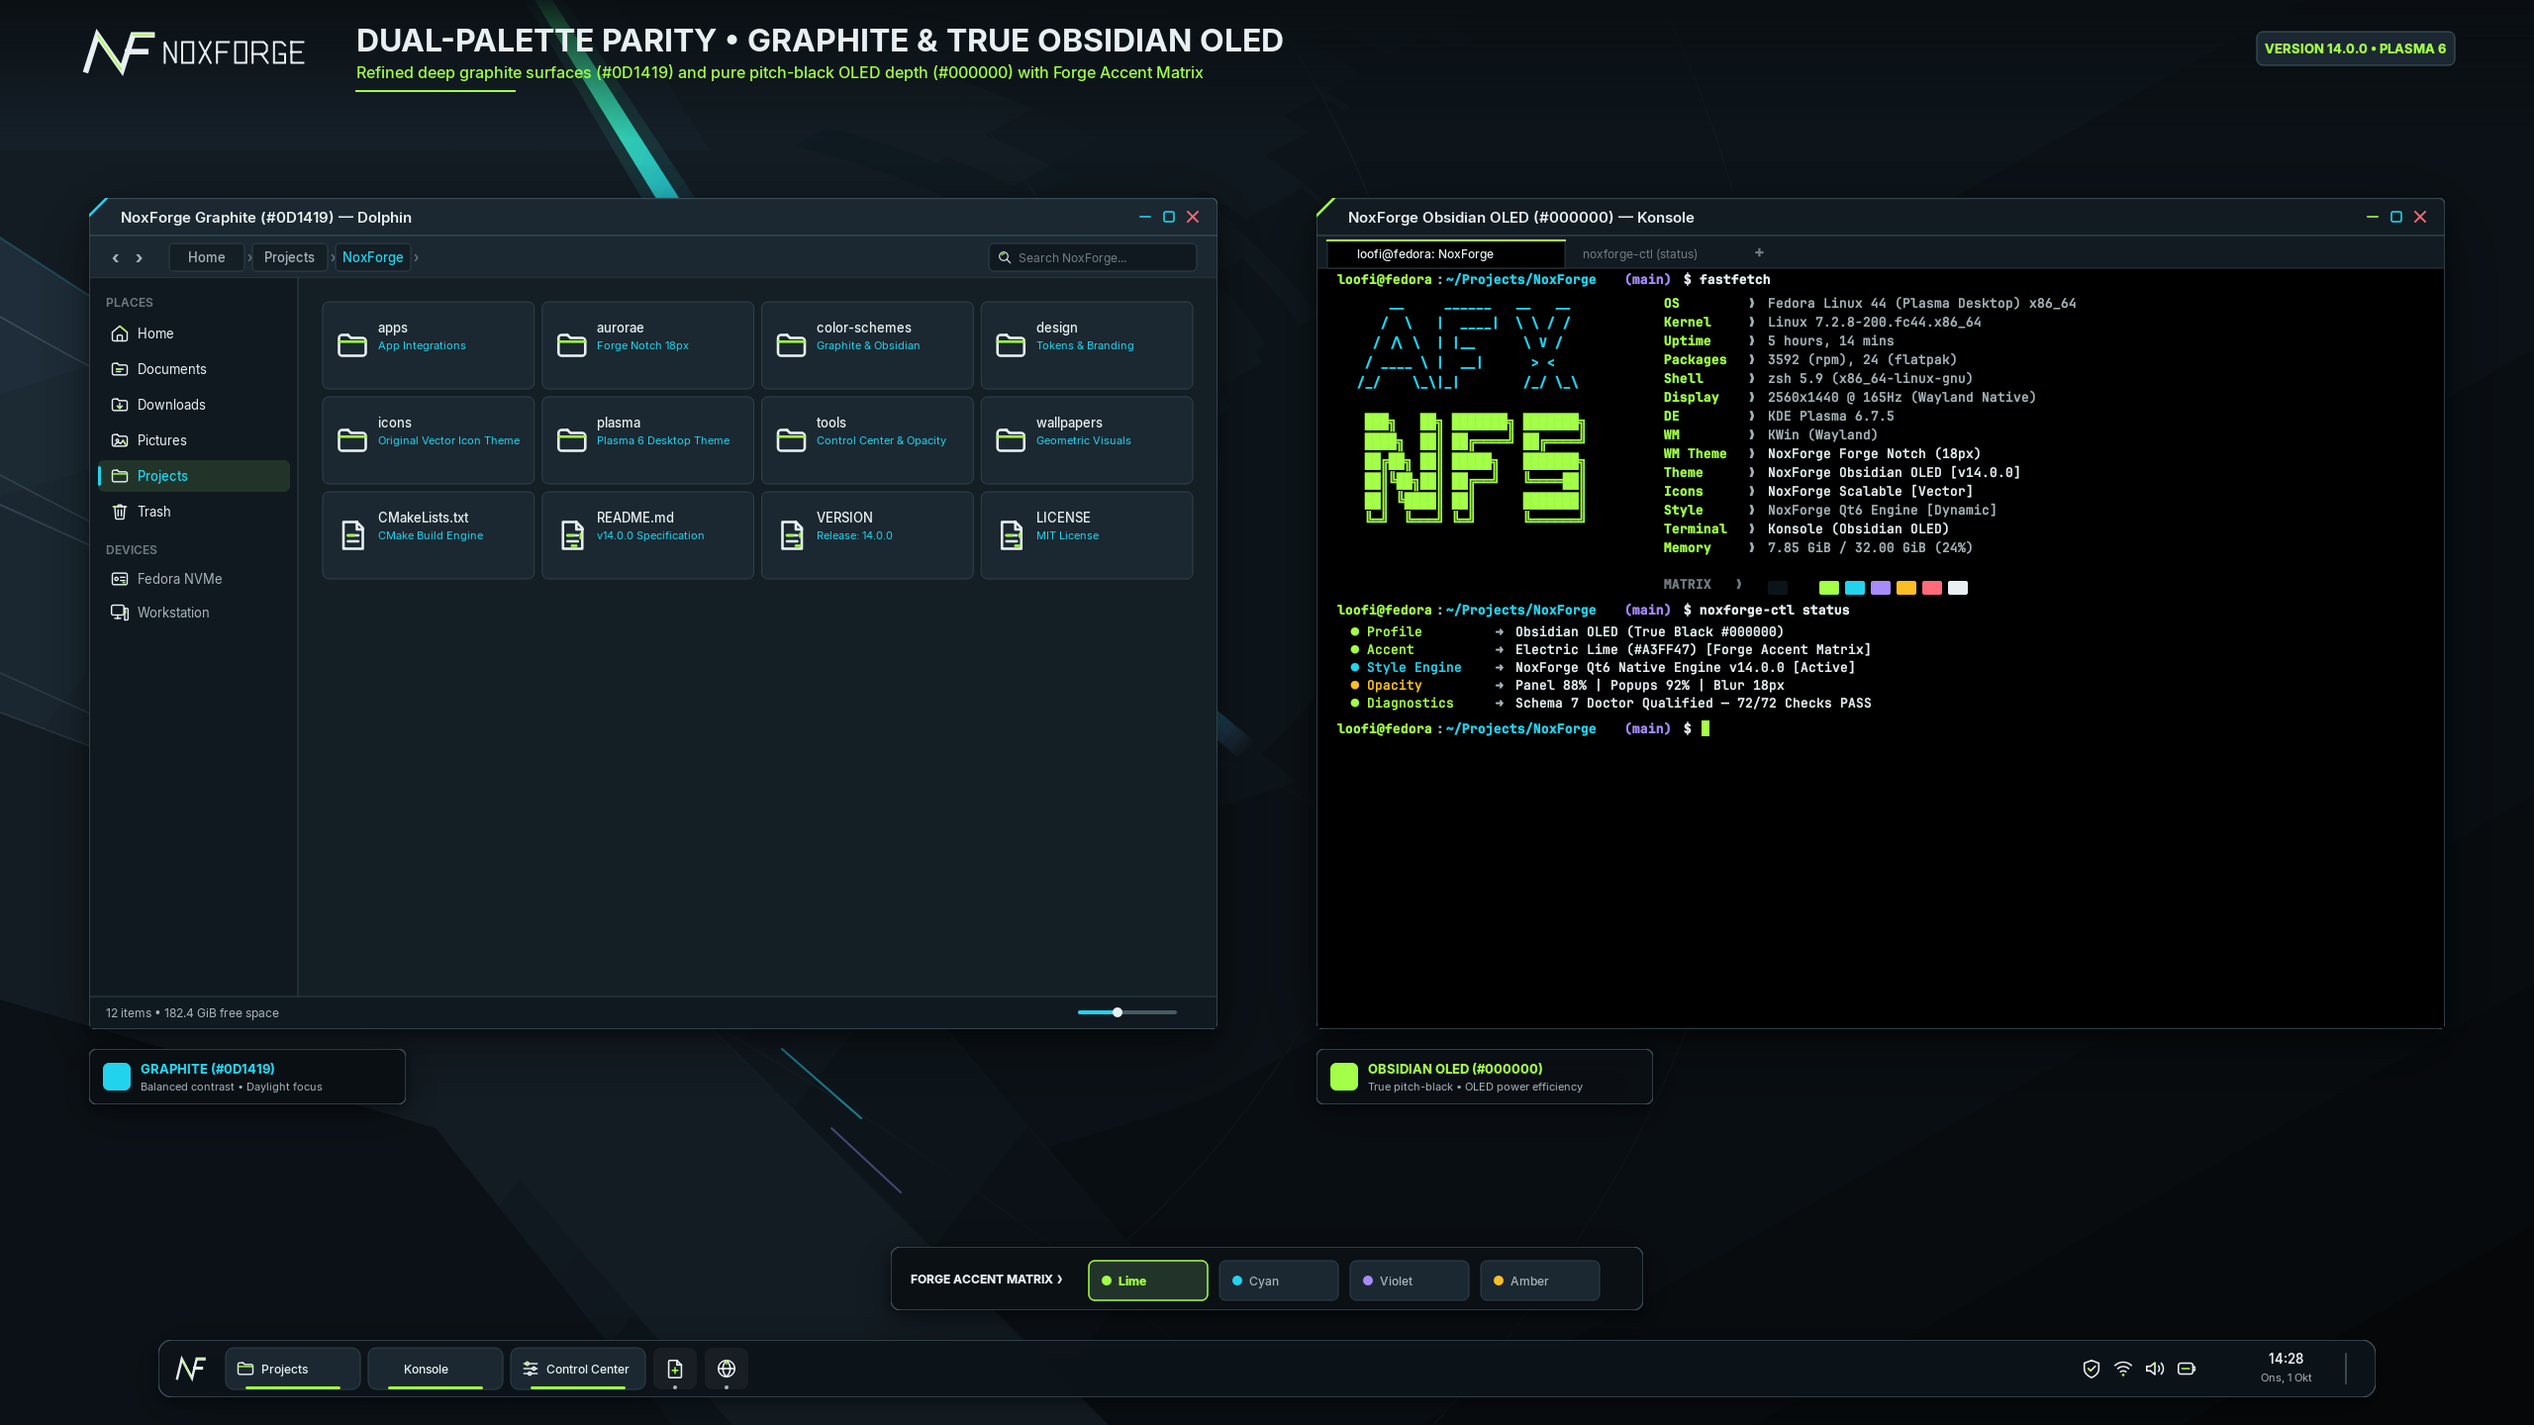
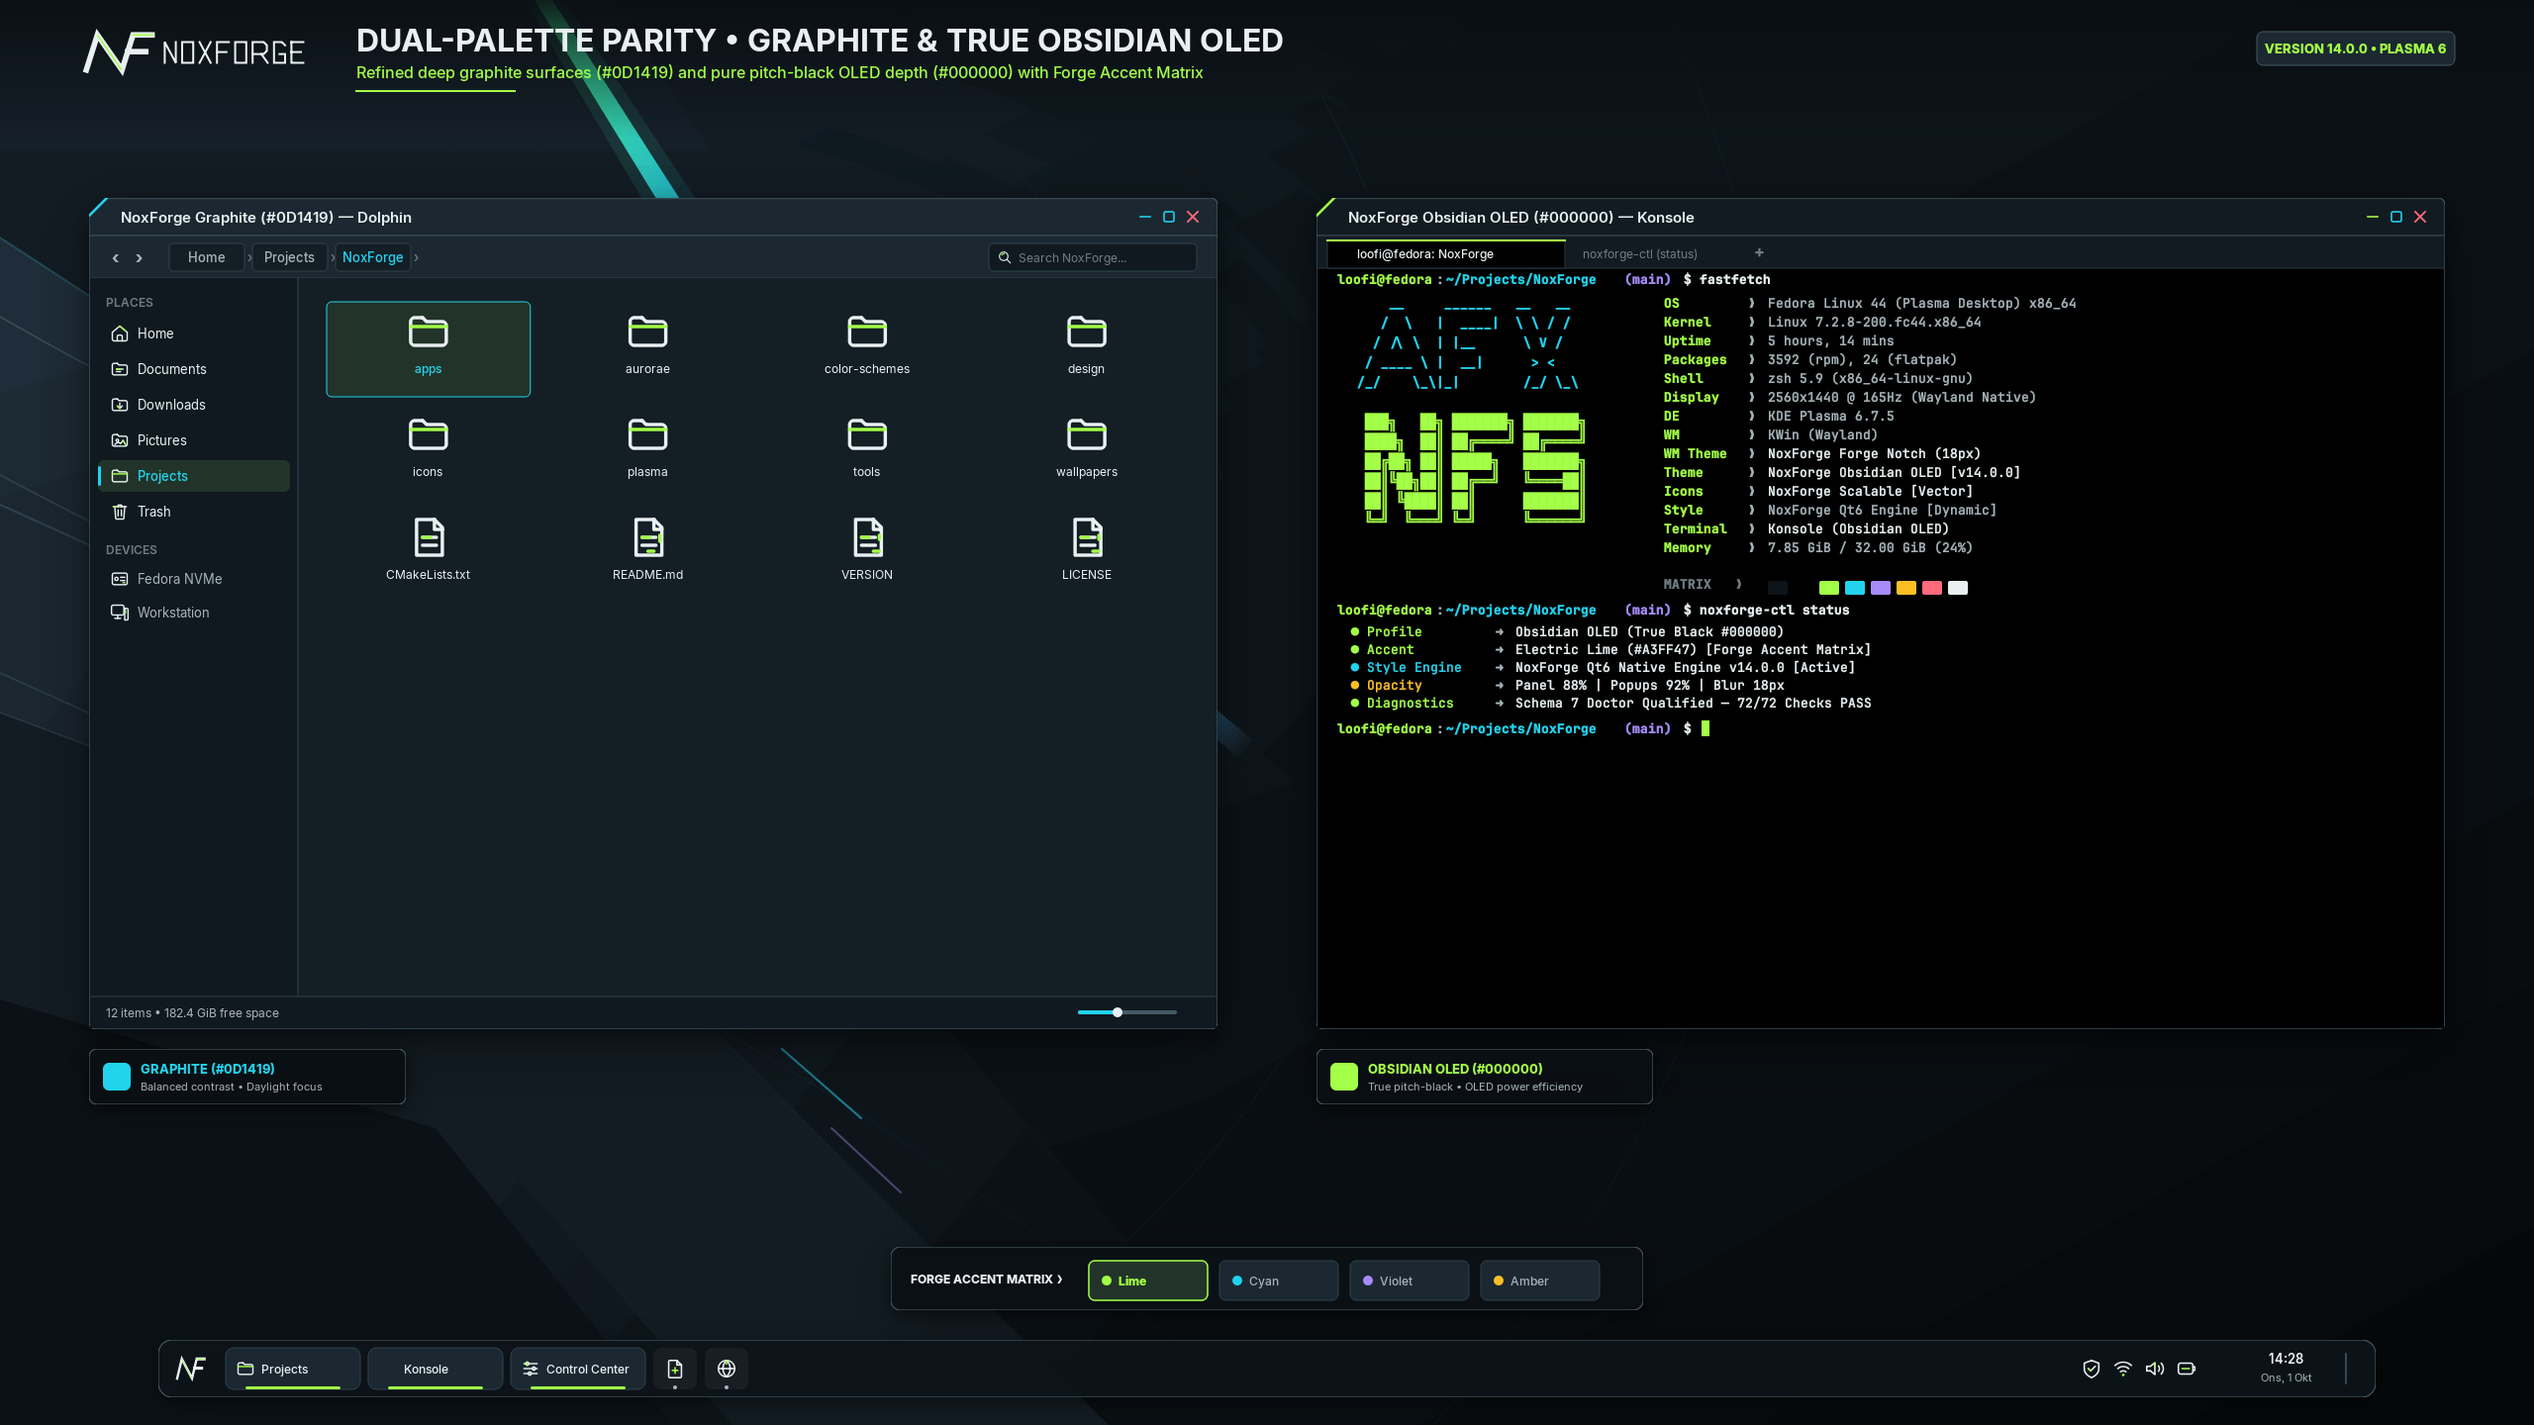
fix(experience): align dolphin showcase with authentic plasma 6 view and add 1-click apply onboarding

diff --git a/look-and-feel/io.github.loofiboss.noxforge.obsidian.desktop/contents/layouts/org.kde.plasma.desktop-layout.js b/look-and-feel/io.github.loofiboss.noxforge.obsidian.desktop/contents/layouts/org.kde.plasma.desktop-layout.js
@@ -1,6 +1,7 @@
 var panel = new Panel;
 panel.location = "bottom";
-panel.height = 40;
+panel.height = 44;
+panel.floating = true;
 panel.addWidget("org.kde.plasma.kickoff");
 panel.addWidget("org.kde.plasma.pager");
 panel.addWidget("org.kde.plasma.icontasks");
@@ -12,4 +13,6 @@ panel.addWidget("org.kde.plasma.showdesktop");
 var desktops = desktopsForActivity(currentActivity());
 for (var index = 0; index < desktops.length; index++) {
     desktops[index].wallpaperPlugin = "org.kde.image";
+    desktops[index].currentConfigGroup = ["Wallpaper", "org.kde.image", "General"];
+    desktops[index].writeConfig("Image", "NoxForge-Obsidian");
 }

diff --git a/look-and-feel/io.github.loofiboss.noxforge.desktop/contents/layouts/org.kde.plasma.desktop-layout.js b/look-and-feel/io.github.loofiboss.noxforge.desktop/contents/layouts/org.kde.plasma.desktop-layout.js
@@ -1,6 +1,7 @@
 var panel = new Panel;
 panel.location = "bottom";
-panel.height = 40;
+panel.height = 44;
+panel.floating = true;
 panel.addWidget("org.kde.plasma.kickoff");
 panel.addWidget("org.kde.plasma.pager");
 panel.addWidget("org.kde.plasma.icontasks");
@@ -12,4 +13,6 @@ panel.addWidget("org.kde.plasma.showdesktop");
 var desktops = desktopsForActivity(currentActivity());
 for (var index = 0; index < desktops.length; index++) {
     desktops[index].wallpaperPlugin = "org.kde.image";
+    desktops[index].currentConfigGroup = ["Wallpaper", "org.kde.image", "General"];
+    desktops[index].writeConfig("Image", "NoxForge");
 }

diff --git a/scripts/render_store_screenshots.py b/scripts/render_store_screenshots.py
@@ -348,51 +348,54 @@ def create_dolphin_window(
         p.drawText(QRectF(drect.left() + 40, drect.top(), 140, 32), Qt.AlignmentFlag.AlignVCenter, dname)
         item_y += 34
 
-    # Main Grid Area (File Browser)
+    # Main Grid Area (Authentic KDE 6 Dolphin File Grid)
     main_rect = QRectF(side_rect.right() + 1, content.top() + tb_h, content.width() - side_w - 1, content.height() - tb_h - 32)
     p.fillRect(main_rect, BG_OBSIDIAN if is_obsidian else SURFACE_GRAPHITE)
 
     folders_and_files = [
-        ("apps", "places/folder.svg", True, "App Integrations"),
-        ("aurorae", "places/folder.svg", True, "Forge Notch 18px"),
-        ("color-schemes", "places/folder.svg", True, "Graphite & Obsidian"),
-        ("design", "places/folder.svg", True, "Tokens & Branding"),
-        ("icons", "places/folder.svg", True, "Original Vector Icon Theme"),
-        ("plasma", "places/folder.svg", True, "Plasma 6 Desktop Theme"),
-        ("tools", "places/folder.svg", True, "Control Center & Opacity"),
-        ("wallpapers", "places/folder.svg", True, "Geometric Visuals"),
-        ("CMakeLists.txt", "mimetypes/text-x-generic.svg", False, "CMake Build Engine"),
-        ("README.md", "mimetypes/text-markdown.svg", False, "v14.0.0 Specification"),
-        ("VERSION", "mimetypes/text-plain.svg", False, "Release: 14.0.0"),
-        ("LICENSE", "mimetypes/text-plain.svg", False, "MIT License"),
+        ("apps", "places/folder.svg", True),
+        ("aurorae", "places/folder.svg", True),
+        ("color-schemes", "places/folder.svg", True),
+        ("design", "places/folder.svg", True),
+        ("icons", "places/folder.svg", True),
+        ("plasma", "places/folder.svg", True),
+        ("tools", "places/folder.svg", True),
+        ("wallpapers", "places/folder.svg", True),
+        ("CMakeLists.txt", "mimetypes/text-x-generic.svg", False),
+        ("README.md", "mimetypes/text-markdown.svg", False),
+        ("VERSION", "mimetypes/text-plain.svg", False),
+        ("LICENSE", "mimetypes/text-plain.svg", False),
     ]
 
     grid_cols = 4
     col_w = (main_rect.width() - 40) / grid_cols
-    row_h = 96
+    row_h = 104
     gx = main_rect.left() + 20
     gy = main_rect.top() + 20
 
-    for i, (fname, ficon, is_dir, fdesc) in enumerate(folders_and_files):
+    for i, (fname, ficon, is_dir) in enumerate(folders_and_files):
         c = i % grid_cols
         r = i // grid_cols
         bx = gx + c * col_w
         by = gy + r * row_h
-        card_rect = QRectF(bx + 4, by + 4, col_w - 8, row_h - 8)
+        cell_rect = QRectF(bx + 8, by + 4, col_w - 16, row_h - 8)
 
-        p.setPen(BORDER_OBSIDIAN if is_obsidian else BORDER_DEFAULT)
-        p.setBrush(SURFACE_OBSIDIAN_RAISED if is_obsidian else SURFACE_RAISED)
-        p.drawRoundedRect(card_rect, 6, 6)
+        # Highlight active selection on 'apps' to demonstrate authentic Dolphin focus
+        is_selected = (fname == "apps" and is_active)
+        if is_selected:
+            p.setPen(QPen(accent, 1.0))
+            p.setBrush(SURFACE_SELECTED)
+            p.drawRoundedRect(cell_rect, 5, 5)
 
-        render_svg(p, ICONS / ficon, QRectF(card_rect.left() + 12, card_rect.top() + (row_h - 8 - 36) / 2, 36, 36))
+        icon_sz = 48
+        icon_x = cell_rect.center().x() - icon_sz / 2
+        icon_y = cell_rect.top() + 6
+        render_svg(p, ICONS / ficon, QRectF(icon_x, icon_y, icon_sz, icon_sz))
 
-        p.setFont(get_font("Inter", 10, QFont.Weight.Medium))
-        p.setPen(TEXT_PRIMARY)
-        p.drawText(QRectF(card_rect.left() + 56, card_rect.top() + 16, card_rect.width() - 60, 20), Qt.AlignmentFlag.AlignVCenter, fname)
-
-        p.setFont(get_font("Inter", 8, QFont.Weight.Normal))
-        p.setPen(accent if is_dir else ACCENT_CYAN)
-        p.drawText(QRectF(card_rect.left() + 56, card_rect.top() + 36, card_rect.width() - 60, 16), Qt.AlignmentFlag.AlignVCenter, fdesc)
+        p.setFont(get_font("Inter", 9, QFont.Weight.Medium if is_selected else QFont.Weight.Normal))
+        p.setPen(accent if is_selected else TEXT_PRIMARY)
+        lbl_rect = QRectF(cell_rect.left() + 2, icon_y + icon_sz + 6, cell_rect.width() - 4, 22)
+        p.drawText(lbl_rect, Qt.AlignmentFlag.AlignHCenter | Qt.AlignmentFlag.AlignTop, fname)
 
     # Status Bar
     stat_rect = QRectF(content.left(), content.bottom() - 32, content.width(), 32)

diff --git a/tools/control_center.py b/tools/control_center.py
@@ -149,6 +149,19 @@ class ProfileAccentTab(QtWidgets.QWidget):
         btn_row.addWidget(self.btn_graphite)
         btn_row.addWidget(self.btn_obsidian)
         p_layout.addLayout(btn_row)
+
+        # 1-Click Full Setup Action
+        setup_row = QtWidgets.QHBoxLayout()
+        self.setup_full_btn = QtWidgets.QPushButton("  ⚡  Apply Complete Setup (Global Theme, Icons, Cursors & Wallpaper)")
+        self.setup_full_btn.setMinimumHeight(34)
+        self.setup_full_btn.setStyleSheet(
+            "background-color: #142218; border: 1px solid #A3FF47; border-radius: 5px; "
+            "color: #A3FF47; font-weight: bold; font-size: 11px; padding: 4px 12px;"
+        )
+        self.setup_full_btn.clicked.connect(self.apply_full_active_setup)
+        setup_row.addWidget(self.setup_full_btn)
+        p_layout.addLayout(setup_row)
+
         layout.addWidget(profile_group)
 
         # Accent Color Section
@@ -336,9 +349,22 @@ class ProfileAccentTab(QtWidgets.QWidget):
                 pass
 
     def apply_profile(self, profile: str) -> None:
-        res = noxforge_ctl.switch_profile(profile)
+        if hasattr(noxforge_ctl, "apply_setup"):
+            res = noxforge_ctl.apply_setup(profile)
+        else:
+            res = noxforge_ctl.switch_profile(profile)
         self.refresh_state()
-        self.statusChanged.emit(f"Profile activated: {profile.upper()}")
+        self.statusChanged.emit(f"Profile activated: {profile.upper()} (complete desktop synchronized)")
+
+    def apply_full_active_setup(self) -> None:
+        status = noxforge_ctl.get_current_status()
+        profile = status.get("profile", "graphite")
+        if hasattr(noxforge_ctl, "apply_setup"):
+            res = noxforge_ctl.apply_setup(profile)
+        else:
+            res = noxforge_ctl.sync_desktop(profile)
+        self.refresh_state()
+        self.statusChanged.emit(f"Complete {profile.upper()} setup applied (Theme, Icons, Cursors, Wallpaper)")
 
     def apply_accent(self, accent: str) -> None:
         res = noxforge_ctl.set_accent(accent)

diff --git a/tests/test_v15_contracts.py b/tests/test_v15_contracts.py
@@ -204,6 +204,23 @@ class NoxForgeV15ContractsTests(unittest.TestCase):
         self.assertEqual(data["changes"]["widgetStyle"], "NoxForge")
         self.assertEqual(data["changes"]["iconTheme"], "NoxForge")
 
+    def test_ctl_apply_subcommand(self) -> None:
+        ctl = ROOT / "tools/noxforge-ctl"
+        res = subprocess.run(
+            [sys.executable, str(ctl), "apply", "graphite", "--layout", "-n", "--json"],
+            cwd=ROOT,
+            capture_output=True,
+            text=True,
+            check=False,
+        )
+        self.assertEqual(res.returncode, 0)
+        data = json.loads(res.stdout)
+        self.assertEqual(data["status"], "dry-run")
+        self.assertIn("wallpaper", data["changes"])
+        self.assertEqual(data["changes"]["wallpaper"], "NoxForge")
+        self.assertEqual(data["changes"]["desktopLayout"], "floating-panel")
+        self.assertEqual(data["changes"]["globalTheme"], "io.github.loofiboss.noxforge.desktop")
+
     def test_application_icons_and_desktop_entries(self) -> None:
         cc_icon = ROOT / "icons/hicolor/scalable/apps/io.github.loofiboss.noxforge.controlcenter.svg"
         op_icon = ROOT / "icons/hicolor/scalable/apps/io.github.loofiboss.noxforge.opacity.svg"

diff --git a/tests/test_control_center_gui.py b/tests/test_control_center_gui.py
@@ -63,6 +63,14 @@ class TestControlCenterGUI(unittest.TestCase):
         self.assertEqual(win_eco.tabs.currentIndex(), 4)
         win_eco.close()
 
+    def test_profile_accent_tab_setup_button(self) -> None:
+        """ProfileAccentTab has working 1-click full setup button and profile buttons."""
+        tab = control_center.ProfileAccentTab()
+        self.assertTrue(hasattr(tab, "setup_full_btn"))
+        self.assertTrue(tab.setup_full_btn.isEnabled())
+        self.assertTrue(tab.btn_graphite.isEnabled())
+        self.assertTrue(tab.btn_obsidian.isEnabled())
+
     def test_ecosystem_tab_instantiation(self) -> None:
         """EcosystemTab instantiates with application table and action buttons."""
         tab = control_center.EcosystemTab()

diff --git a/docs/INSTALL_FEDORA.md b/docs/INSTALL_FEDORA.md
@@ -21,11 +21,28 @@ rpm -V noxforge
 noxforge-doctor --json
 ```
 
+## Quick Start — Apply NoxForge
+
 Package installation does not automatically apply NoxForge, change a panel, edit KDE
 configuration, restart Plasma, install a display manager, or switch display
-managers. PLM does not support arbitrary third-party greeter QML, so NoxForge
-does not ship a replacement PLM greeter or write PLM configuration. Select components explicitly
-in System Settings, or orchestrate via `noxforge-ctl` / Control Center.
+managers. To immediately apply the complete NoxForge experience:
+
+```bash
+# Apply Graphite (standard) or Obsidian (OLED) across theme, icons, cursors & wallpaper:
+noxforge-ctl apply graphite
+# Or with the optional floating panel desktop layout:
+noxforge-ctl apply graphite --layout
+
+# Or launch the graphical Control Center:
+noxforge-ctl gui
+```
+
+### Dolphin & Desktop Clean Look
+
+To get the clean, modern look featured in the showcase:
+* **Dolphin:** Press `Ctrl+M` to hide the classic menubar (Dolphin will use the modern hamburger menu on the toolbar). In *Configure Dolphin → View Modes*, the vector icons scale cleanly in Icons mode.
+* **Floating Panel:** In KDE Plasma 6, right-click the bottom panel → *Enter Edit Mode* → enable *Floating* (or use `noxforge-ctl apply --layout`).
+
 
 ## Build from the distributed source archive
 

diff --git a/docs/QUICKSTART.md b/docs/QUICKSTART.md
@@ -23,12 +23,20 @@ noxforge-doctor --json
 The RPM installs the native Qt style, orchestration suite (`noxforge-ctl`,
 Control Center GUI), and system doctor but never automatically applies a
 theme, changes a panel, edits KDE configuration, or switches a display manager.
+To immediately apply the full setup:
+
+```bash
+# Apply Graphite (standard) or Obsidian (OLED):
+noxforge-ctl apply graphite
+# Or launch the graphical Control Center:
+noxforge-ctl gui
+```
+
 Fedora 44 uses Plasma Login Manager by default: select **NoxForge Quiet** as its
-wallpaper through System Settings if desired. NoxForge does not supply a custom
-PLM greeter. Select
+wallpaper through System Settings if desired. Select
 Global Theme, application style, decorations, icons, cursors, sounds and one
 of the five wallpapers explicitly in System Settings, or orchestrate via
-`noxforge-ctl` / Control Center.
+`noxforge-ctl` / Control Center. Press `Ctrl+M` in Dolphin to hide the legacy menubar for the clean modern aesthetic.
 
 ## Portable user-local edition
 
